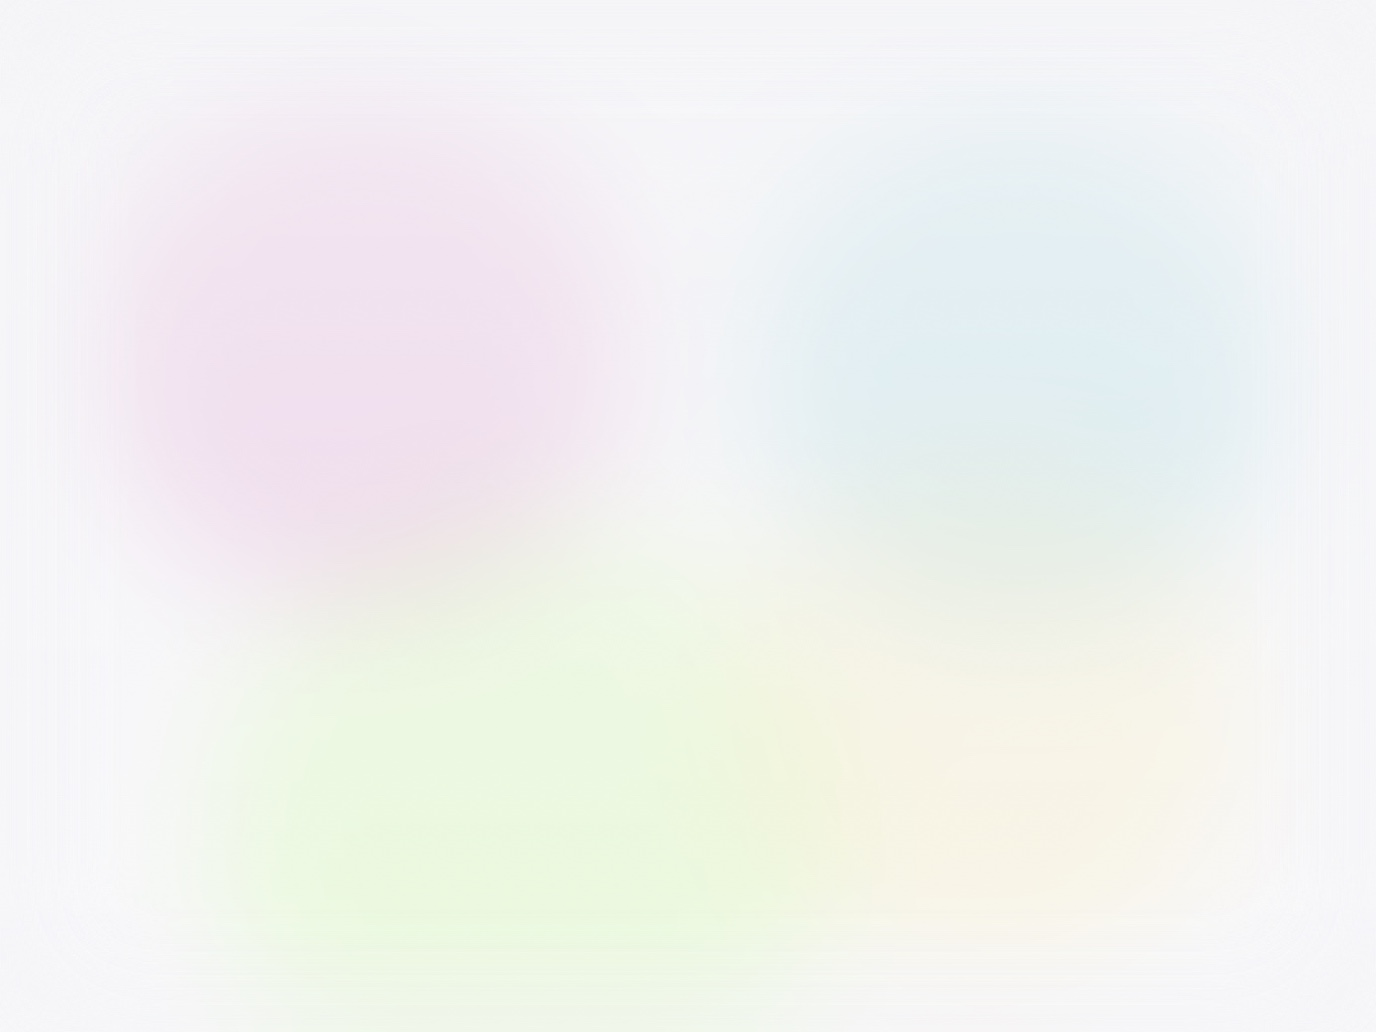
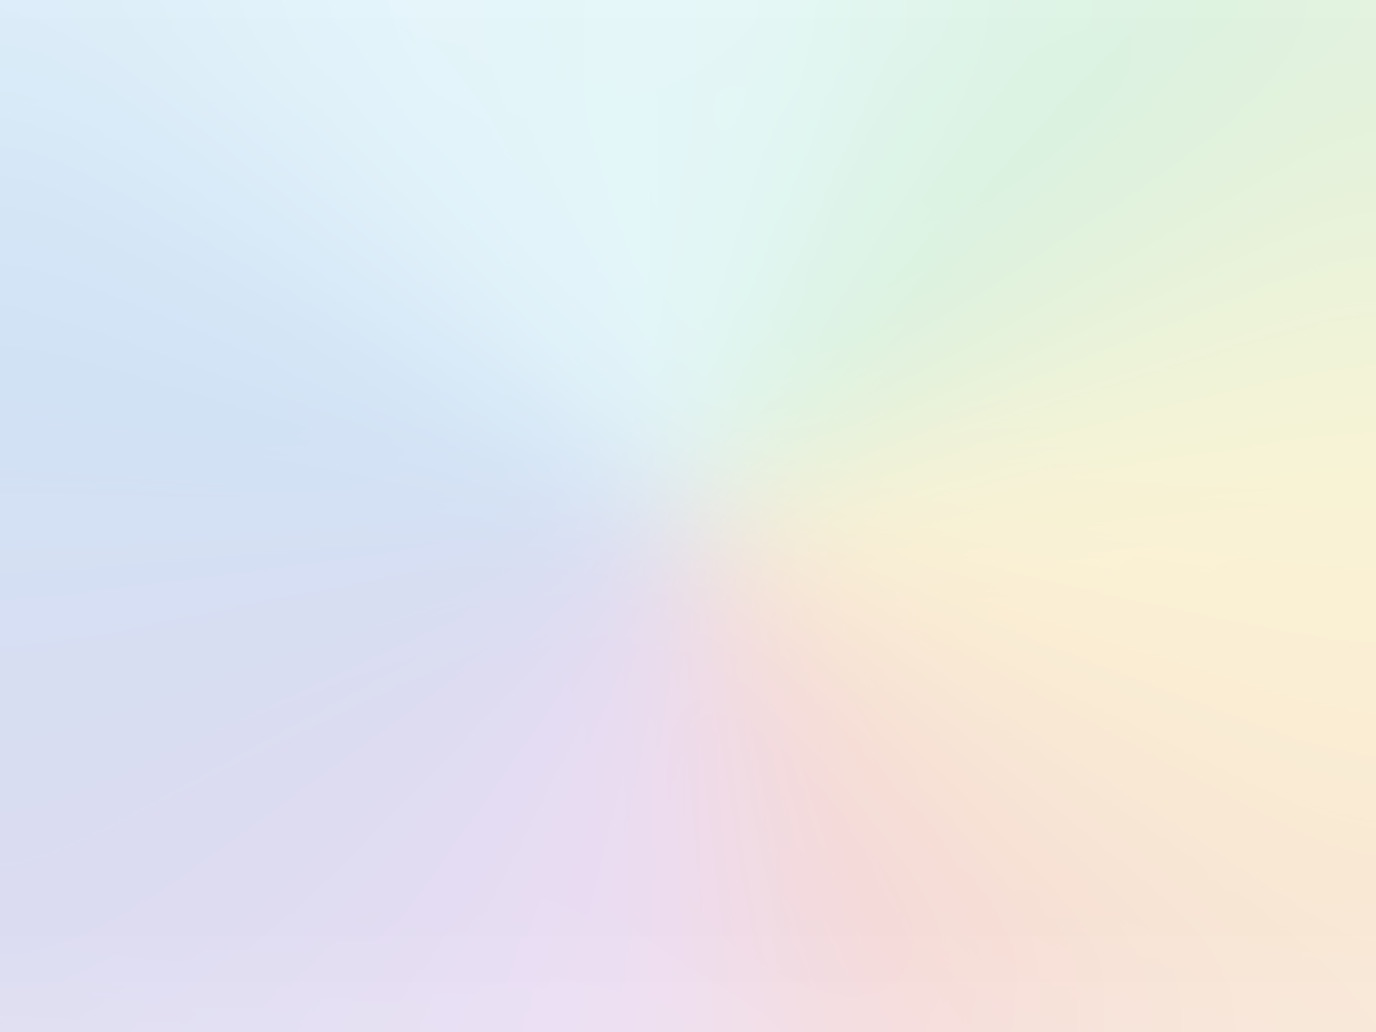
Update glass effects

diff --git a/_sass/site/site.scss b/_sass/site/site.scss
@@ -27,6 +27,18 @@
   max-height: 65px !important;
 }
 
+.grid.features {
+  .image-container { 
+    background-size: cover; 
+    background-color: rgba(255,255,255,0.3);
+    background-blend-mode: lighten;
+  }
+  a:nth-child(4n + 1) .image-container { background-image: url(/assets/bg/glass-grid-1.jpg) !important; }
+  a:nth-child(4n + 2) .image-container { background-image: url(/assets/bg/glass-grid-2.jpg) !important; }
+  a:nth-child(4n + 3) .image-container { background-image: url(/assets/bg/glass-grid-3.jpg) !important; }
+  a:nth-child(4n + 4) .image-container { background-image: url(/assets/bg/glass-grid-4.jpg) !important; }
+}
+
 @media (max-width: 500px) {
 
     // Hide open-source on smaller screens

diff --git a/_sass/kankoda/glass.scss b/_sass/kankoda/glass.scss
@@ -22,4 +22,3 @@
 .glass-panel.bg-2::before { background-image: url('/assets/bg/glass-2.jpg'); }
 .glass-panel.bg-3::before { background-image: url('/assets/bg/glass-3.jpg'); }
 .glass-panel.bg-4::before { background-image: url('/assets/bg/glass-4.jpg'); }
-.glass-panel.bg-5::before { background-image: url('/assets/bg/glass-5.jpg'); }

diff --git a/pages/documentation.md b/pages/documentation.md
@@ -4,7 +4,7 @@ title: Documentation
 layout: page
 permalink: /documentation
 
-page-class: glass-panel bg-5
+page-class: glass-panel bg-4
 
 redirect_from: /docs
 

diff --git a/pages/blog.md b/pages/blog.md
@@ -3,7 +3,7 @@ layout: blog
 title: Blog
 permalink: /blog/
 
-page-class: glass-panel bg-5
+page-class: glass-panel bg-4
 ---
 
 <h1>Blog</h1>
